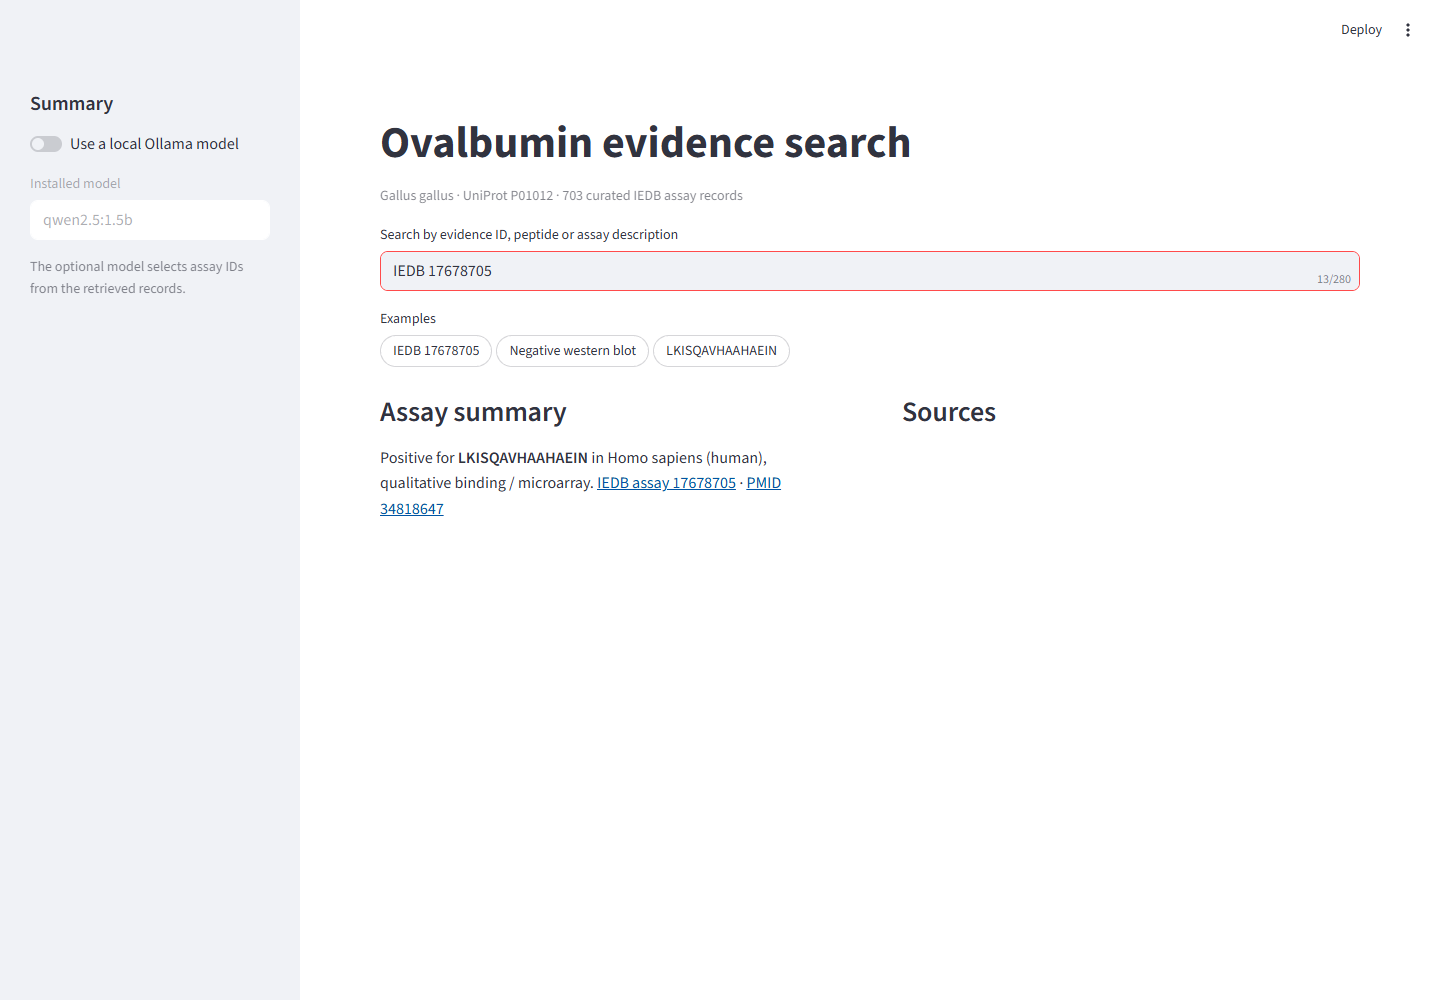
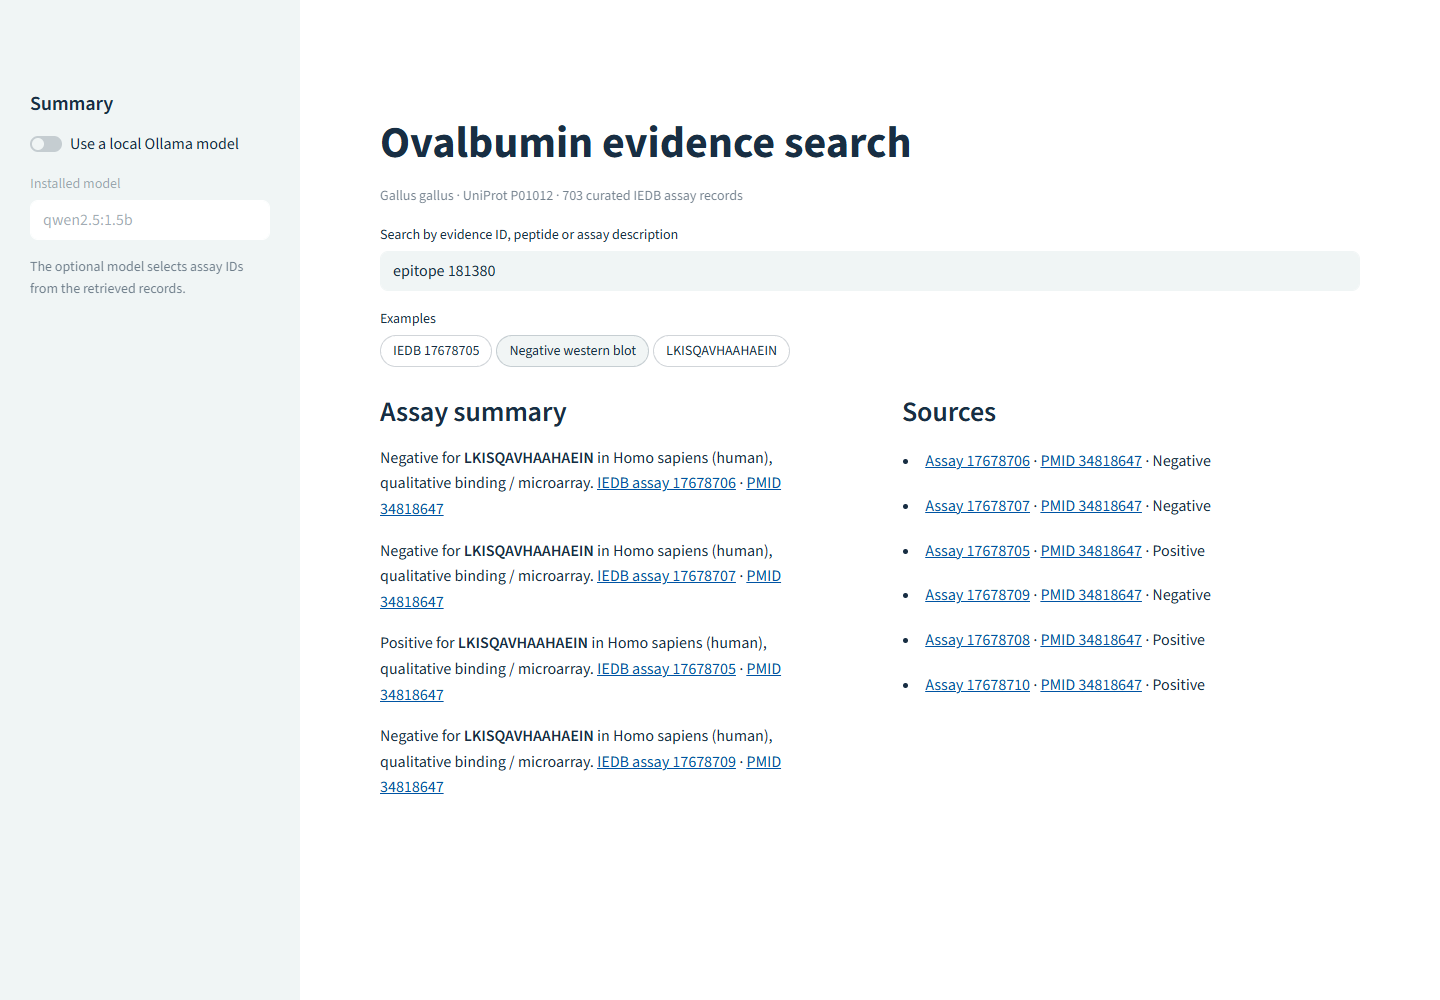
Publish reproducible bioinformatics portfolio project

diff --git a/app.py b/app.py
@@ -17,6 +17,10 @@ def use_example():
         st.session_state.question = st.session_state.example
 
 
+def clear_example():
+    st.session_state.example = None
+
+
 search = load_index()
 st.title("Ovalbumin evidence search")
 st.caption(f"Gallus gallus · UniProt P01012 · {len(search.assays):,} curated IEDB assay records")
@@ -25,6 +29,7 @@ question = st.text_input(
     placeholder="Example: What evidence exists for epitope 181380?",
     max_chars=280,
     key="question",
+    on_change=clear_example,
 )
 st.pills("Examples", ["IEDB 17678705", "Negative western blot", "LKISQAVHAAHAEIN"],
          key="example", on_change=use_example)

diff --git a/README.md b/README.md
@@ -30,11 +30,11 @@ The analysis uses the snapshot included in `data/`.
 
 Start the interface with `python -m streamlit run app.py`. Results in the repository are ready to explore after installing the requirements.
 
-Optional local AI setup uses [Ollama](https://ollama.com/) with `ollama pull qwen2.5:1.5b`. Enable the model in the app. The default search and summaries run without a model or a network connection.
+Optional local AI setup uses [Ollama](https://ollama.com/) with `ollama pull qwen2.5:1.5b`. Enable the model in the app. The local Qwen integration was tested on a query about epitope 181380. The default search and summaries run offline using the bundled index.
 
 ## Interpretation
 
-The corpus is limited to three ovalbumin studies. Text ranking is lexical. The evaluation examples are a small set of hand-written functional checks and do not establish general retrieval accuracy. For new data, `python refresh.py raw/new-snapshot` writes a snapshot for separate review.
+The corpus contains three ovalbumin studies. Text ranking is lexical. The seven hand-written examples validate basic search behavior on the bundled corpus. For new data, `python refresh.py raw/new-snapshot` writes a snapshot for review.
 
 ## Sources and licenses
 
